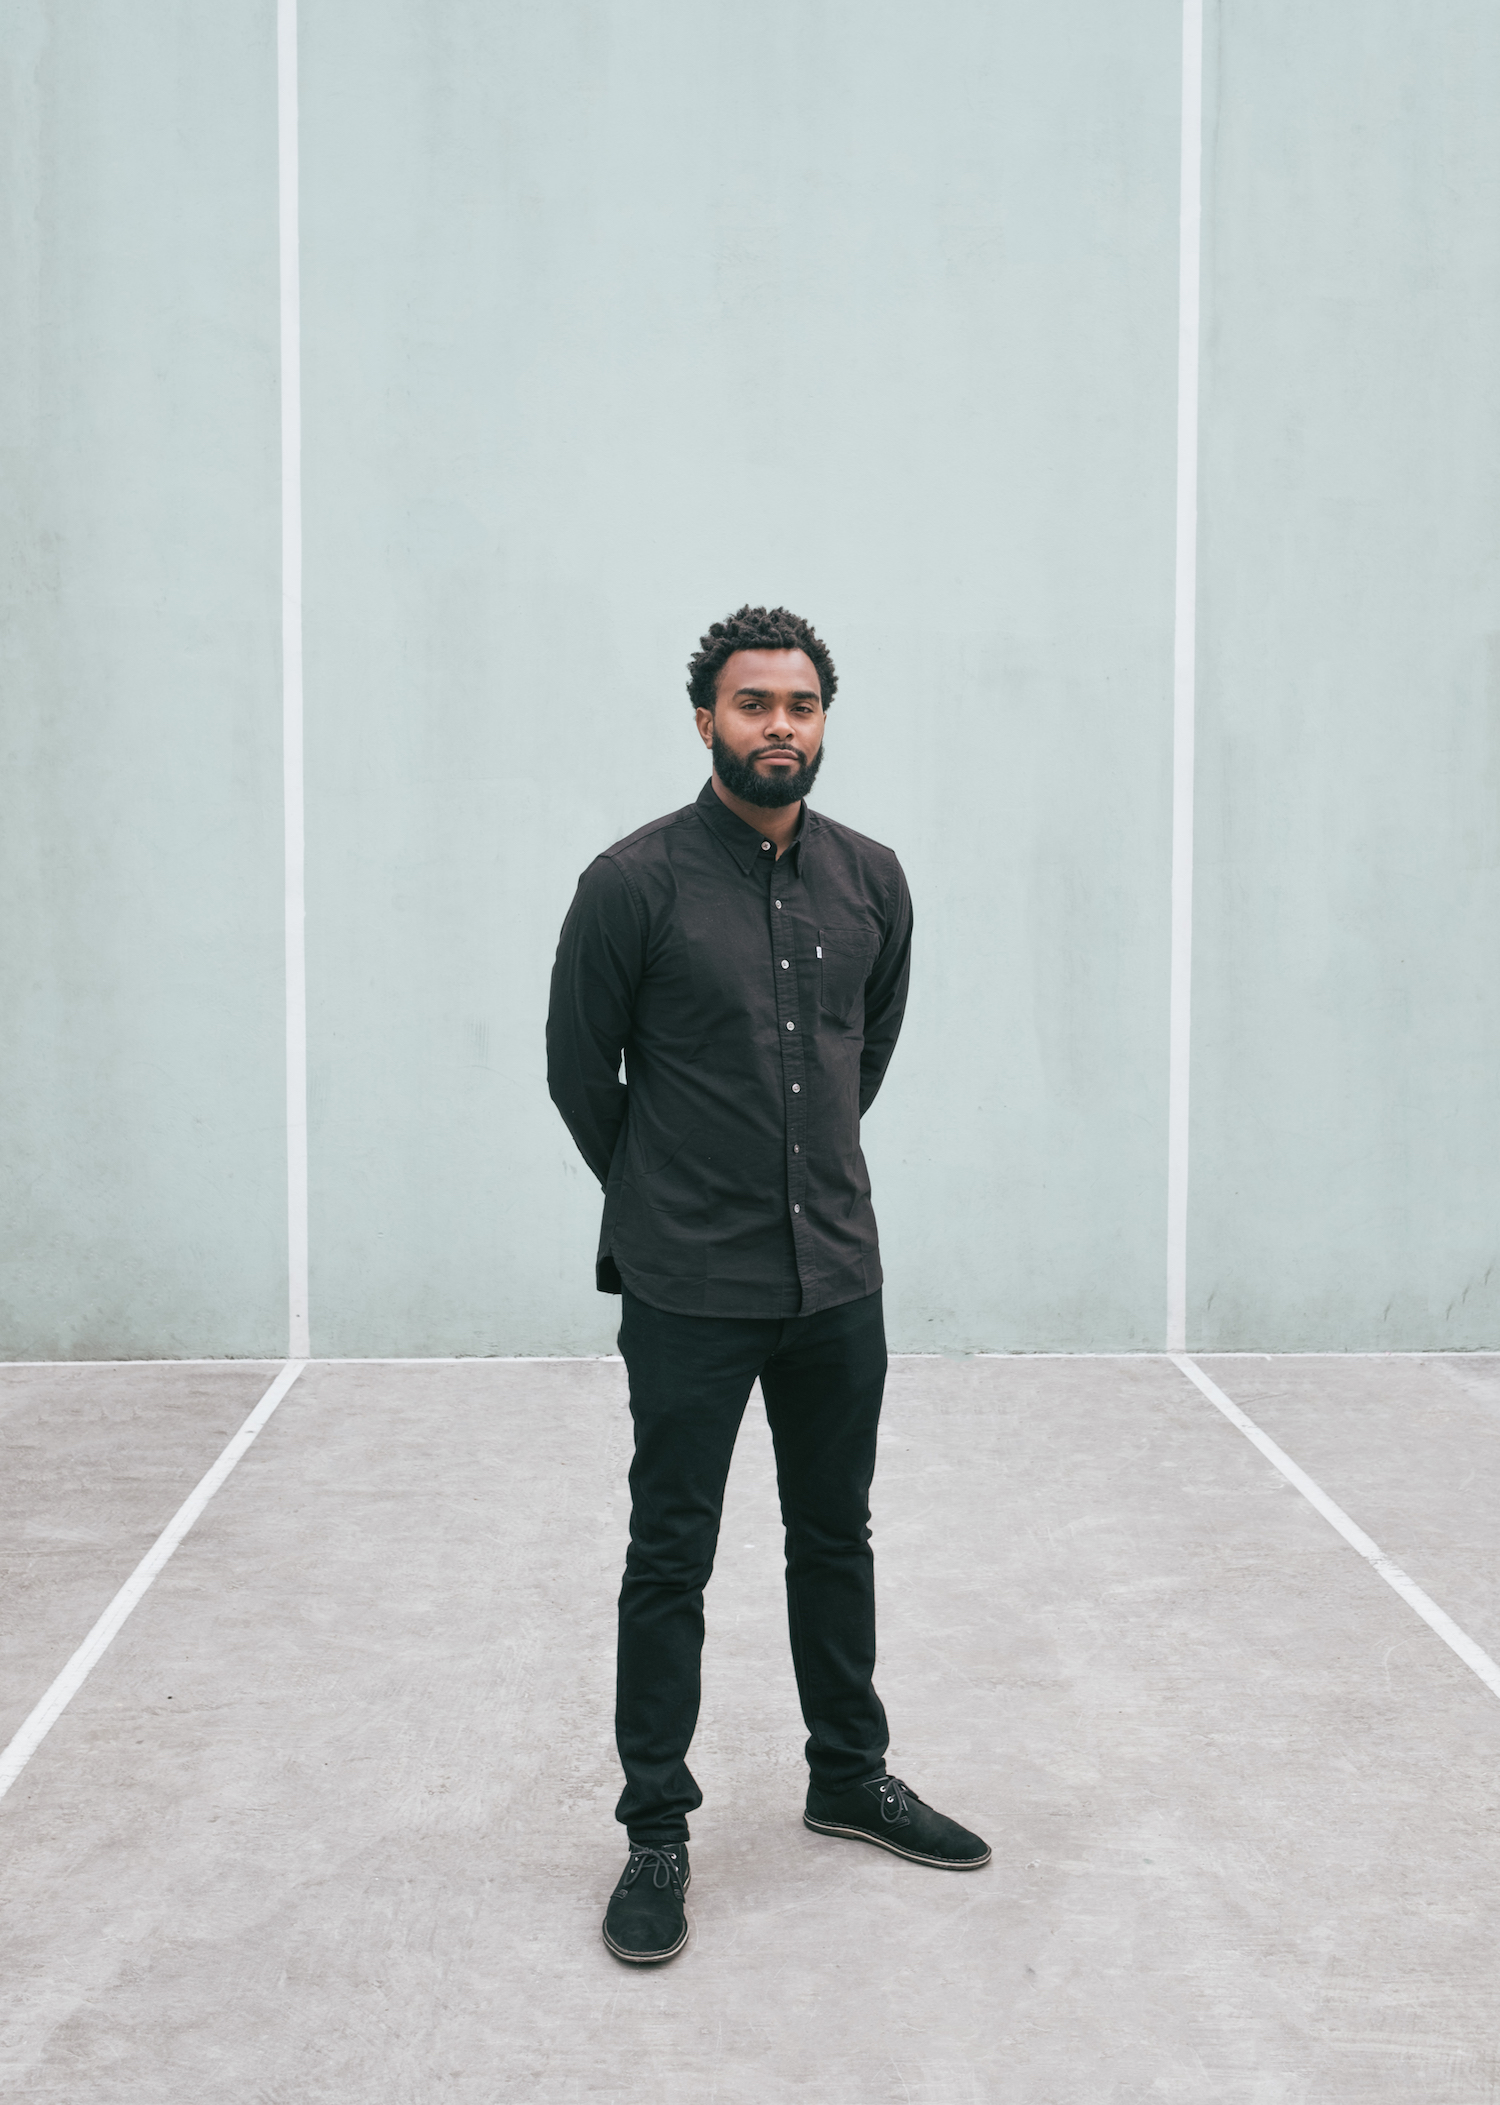
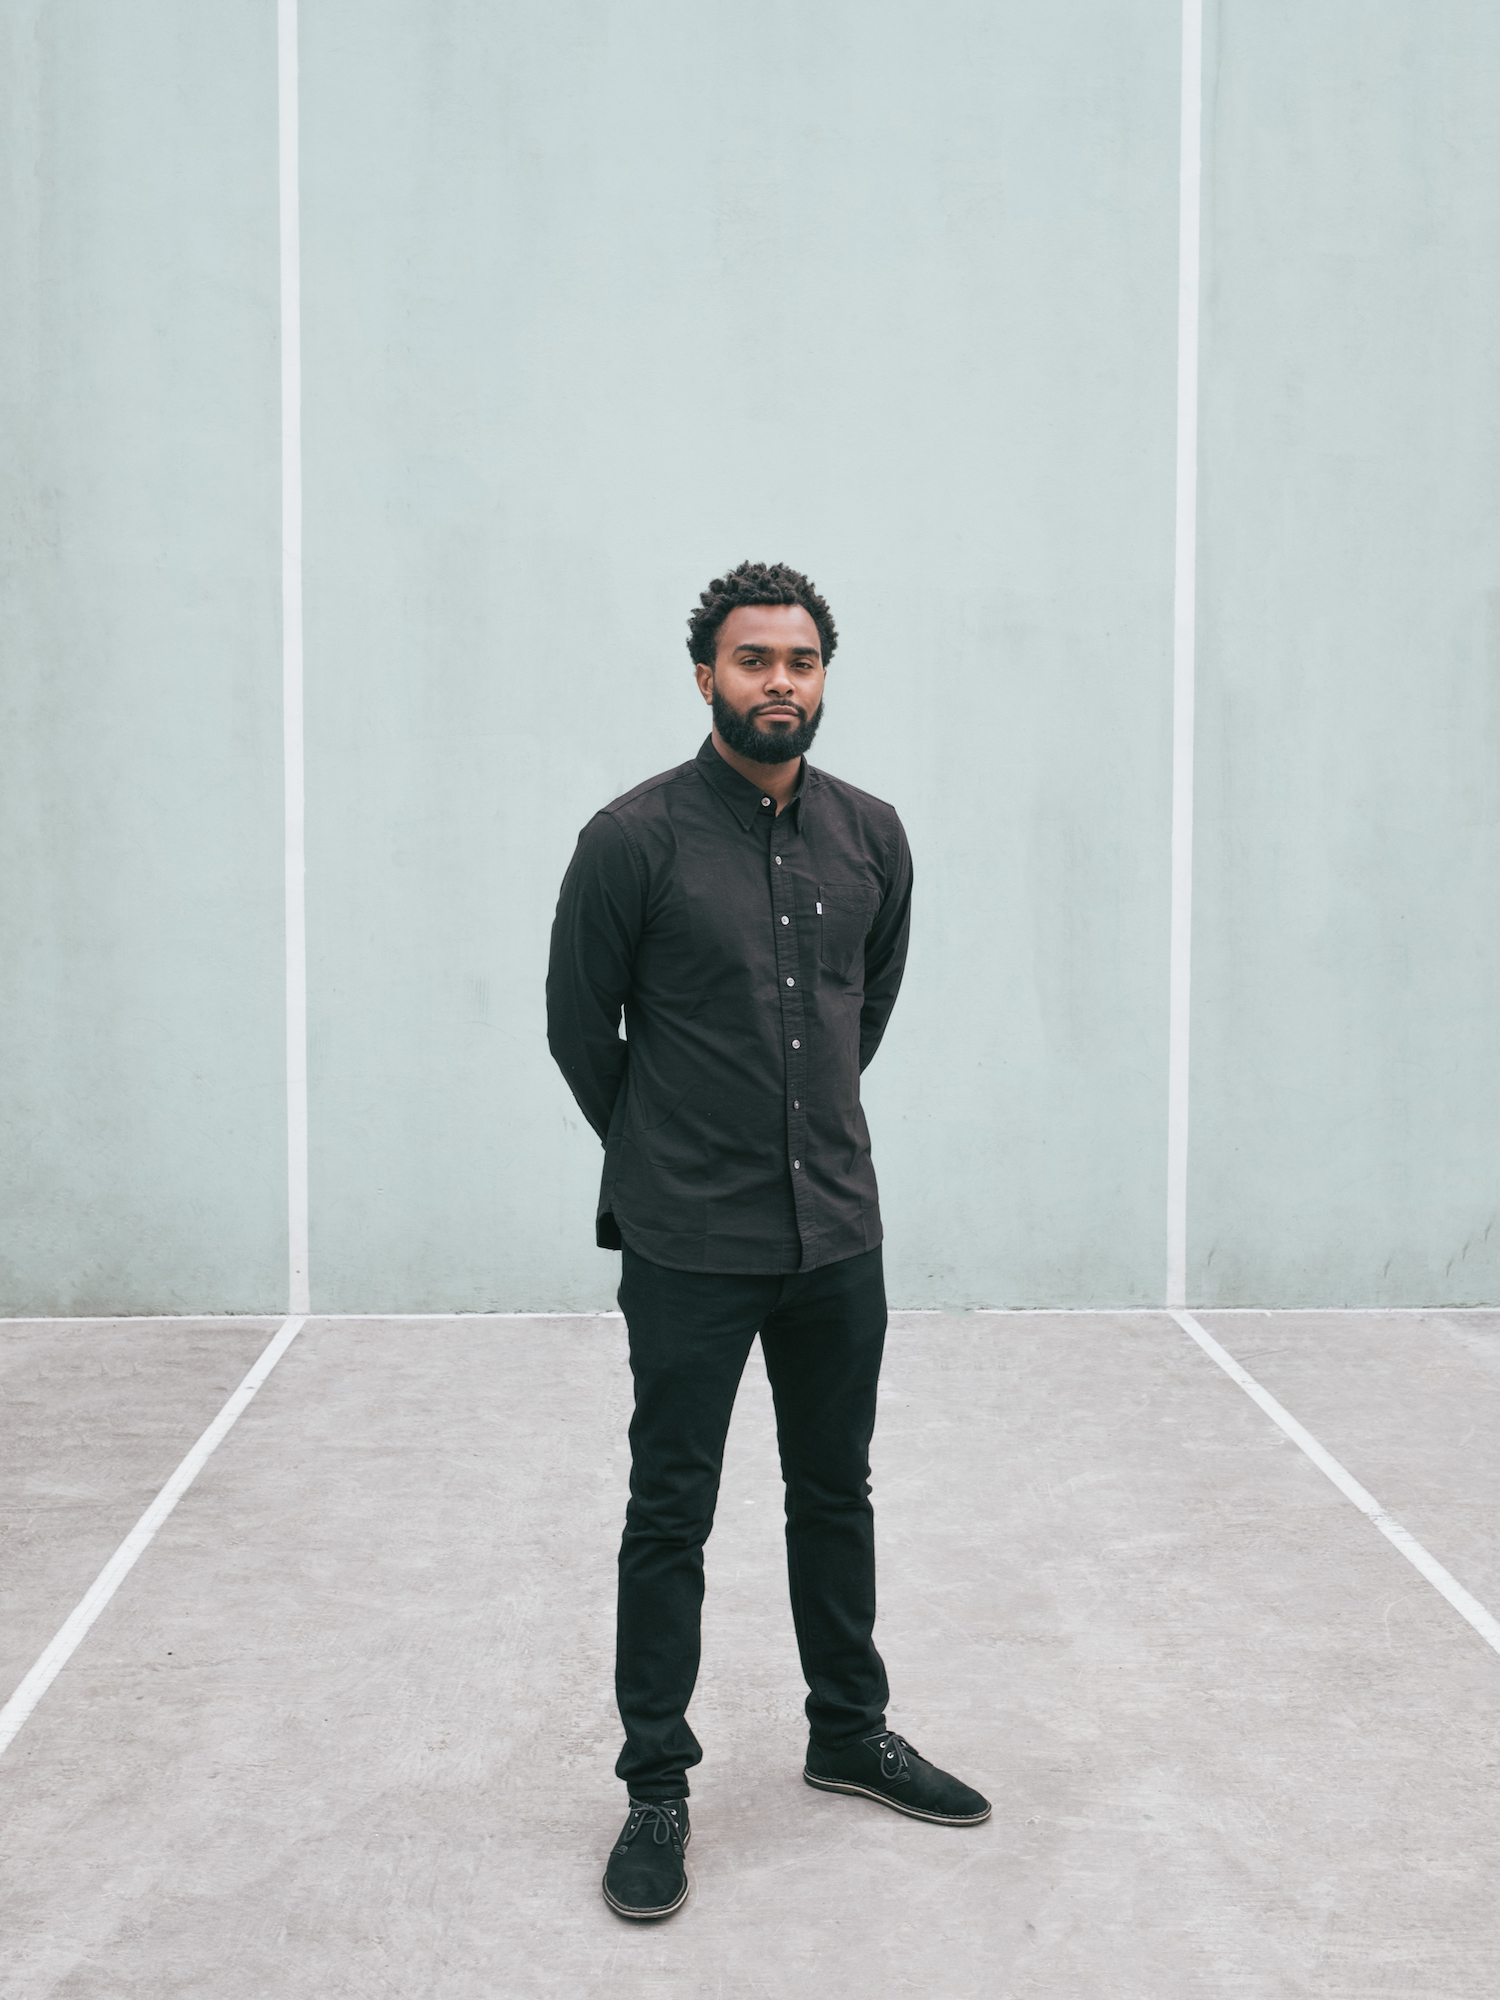
Add webgl image distortion effect to about page.

diff --git a/src/components/pages/About.vue b/src/components/pages/About.vue
@@ -6,11 +6,11 @@
                 <div class="large_container">
                     <div class="row">
                         <div class="column_1_2">
-                            <img src="/static/img/about/me.jpg" />
+                            <div class="profile-image"></div>
                         </div>
                         <div class="column_1_2">
                             <p>My name is Celso White, I create websites and digital experiences that help individuals and brands tell their story and grow their business.</p>
-                            <h3>Development</h3><p>I specialize as a front end developer, building custom websites in Wordpress and Shopify platforms. I'll collaborate with your team and offer feedback through strategy, user experience, and design. By the time development starts, I have an intimate idea of the projects goals and a detailed technical strategy for how to achieve them.</p>
+                            <h3>Developer</h3><p>I specialize as a front end developer, building custom websites in Wordpress and Shopify platforms. I'll collaborate with your team and offer feedback through strategy, user experience, and design. By the time development starts, I have an intimate idea of the projects goals and a detailed technical strategy for how to achieve them.</p>
                             <h3>Agency</h3><p>Celso White LLC is a full service digital agency. I bring in and lead a team of contractors perfect for your project. We specialize in logo design, branding, user experience, strategy and development. During our project we integrate and become a part of your team.</p>
                             <h3>Clients</h3>
                             <LogoList :logos="clientLogos" alignment="left" />
@@ -27,17 +27,20 @@
 <script>
 
     import PageHeader from '../organisms/PageHeader';
-    import WebsiteGrid from '../organisms/WebsiteGrid';
     import SocialList from '../atoms/SocialList';
     import LogoList from '../atoms/LogoList';
     import { store } from '../../store/store';
     import { personalSocials } from '../../data/socials';
     import { clientLogos } from '../../data/logos';
+
+    // Libraries
+
+    import imageHoverEffect from '../../vendor/imageHoverEffect.js';
                     
     export default {
-        name: 'Websites',
+        name: 'About',
         metaInfo: {
-            title: 'Websites',
+            title: 'About',
         },
         data() {
             return {
@@ -47,17 +50,66 @@
         },
         components: {
             PageHeader,
-            WebsiteGrid,
             SocialList,
             LogoList
         },
         mounted: function() {
+
             store.setColorScheme('light');
+
+            /*----------------------
+            Profile Image Animation
+            ----------------------*/
+
+            var profileImageAnimation = new imageHoverEffect({
+                parent: document.querySelector('.profile-image'),
+                intensity1: 0.1,
+                intensity2: 0.1,
+                speedIn: 3,
+                speedOut: 3,
+                angle2: Math.PI / 2,
+                image1: '/static/img/about/me.jpg',
+                image2: '/static/img/about/me.jpg',
+                displacementImage: '/static/img/about/displacement-1.jpg',
+                hover: false
+            });
+
+            // Automatically alternate the profile images in the three js scene.
+
+            let currentImage = 'first';
+
+            window.setInterval(function(){
+                if(currentImage === 'first') {
+                    profileImageAnimation.next();
+                    currentImage = 'second';
+                }
+                else {
+                    profileImageAnimation.previous();
+                    currentImage = 'first';
+                }
+            }, 3000);
+
         }
     }
 
 </script>
 
-<style scoped lang="scss">
+<style lang="scss">
+
+    // Responsive profile image container to place three js canvas within.
+
+    .profile-image {
+        position: relative;
+    }
+
+    .profile-image canvas {
+        position: absolute;
+    }
+
+    .profile-image:after {
+        content: "";
+        display: block;
+        padding-bottom: 130%; 
+    }
 
 </style>
